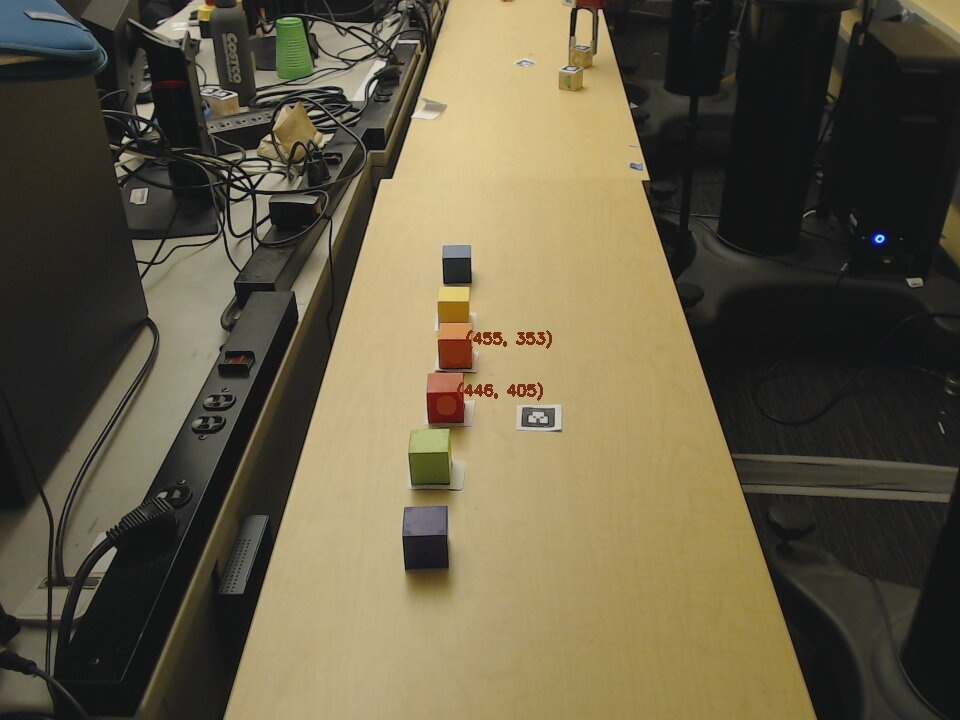
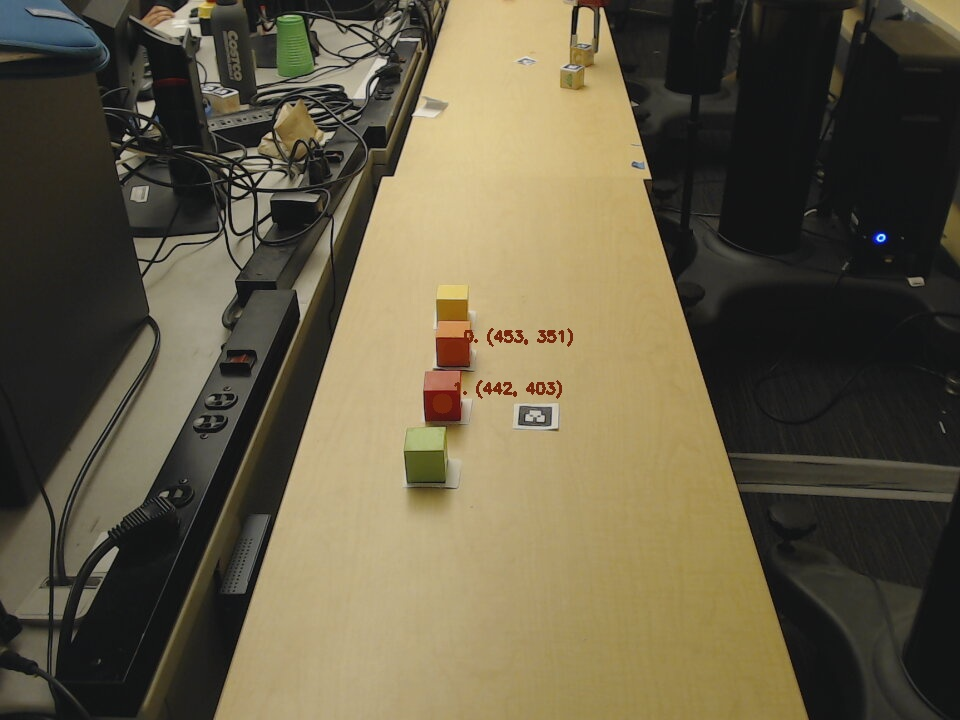
order by area, cut out the middle

diff --git a/color_detection.py b/color_detection.py
@@ -25,6 +25,11 @@ def detect_color_positions(target_color, image_path, output_path, tolerance=np.a
     assert target_color in COLORS
 
     image = cv2.imread(image_path)
+
+    height, width = image.shape[:2]
+    mid_range_start = int(width * 0.25)
+    mid_range_end = int(width * 0.75)
+
     hsv = cv2.cvtColor(image, cv2.COLOR_BGR2HSV)
 
     base_hsv = COLORS[target_color].astype(np.uint32)
@@ -40,23 +45,33 @@ def detect_color_positions(target_color, image_path, output_path, tolerance=np.a
     ], dtype=np.uint8)
 
     mask = cv2.inRange(hsv, lower_bound, upper_bound)
-    cv2.imwrite(f'pictures/logitech_examples_output/masks/mask_{color}.jpg', mask)
+    cv2.imwrite(f'pictures/logitech_examples_output/masks/mask_{target_color}.jpg', mask)
 
     contours, _ = cv2.findContours(mask, cv2.RETR_EXTERNAL, cv2.CHAIN_APPROX_SIMPLE)
 
-    positions = []
+    positions_with_areas = []
     for contour in contours:
-        if cv2.contourArea(contour) > 30:
-            x, y, w, h = cv2.boundingRect(contour)
-            cx, cy = x + w // 2, y + h // 2
-            positions.append((cx, cy))
+        area = cv2.contourArea(contour)
+        x, y, w, h = cv2.boundingRect(contour)
+        cx, cy = x + w // 2, y + h // 2
+        if (area > 30) and (mid_range_start <= cx <= mid_range_end):
+            positions_with_areas.append(((cx, cy), area))
 
-            bgr_color = cv2.cvtColor(np.uint8([[base_hsv]]), cv2.COLOR_HSV2BGR)[0][0]
-            bgr_color = tuple(int(c) for c in bgr_color)
+    # Sort by contour area in descending order
+    positions_with_areas.sort(key=lambda item: item[1], reverse=True)
 
-            cv2.circle(image, (cx, cy), 10, bgr_color, -1)  
-            cv2.putText(image, f"({cx}, {cy})", (cx + 10, cy - 10),
-                        cv2.FONT_HERSHEY_SIMPLEX, 0.5, bgr_color, 2)
+    # Extract sorted positions
+    positions = [pos for pos, _ in positions_with_areas]
+
+    # Draw the positions on the image
+    for i, pos in enumerate(positions):
+        cx, cy = pos
+        bgr_color = cv2.cvtColor(np.uint8([[base_hsv]]), cv2.COLOR_HSV2BGR)[0][0]
+        bgr_color = tuple(int(c) for c in bgr_color)
+
+        cv2.circle(image, (cx, cy), 10, bgr_color, -1)  
+        cv2.putText(image, f"{i}. ({cx}, {cy})", (cx + 10, cy - 10),
+                    cv2.FONT_HERSHEY_SIMPLEX, 0.5, bgr_color, 2)
 
     cv2.imwrite(output_path, image)
     return positions
